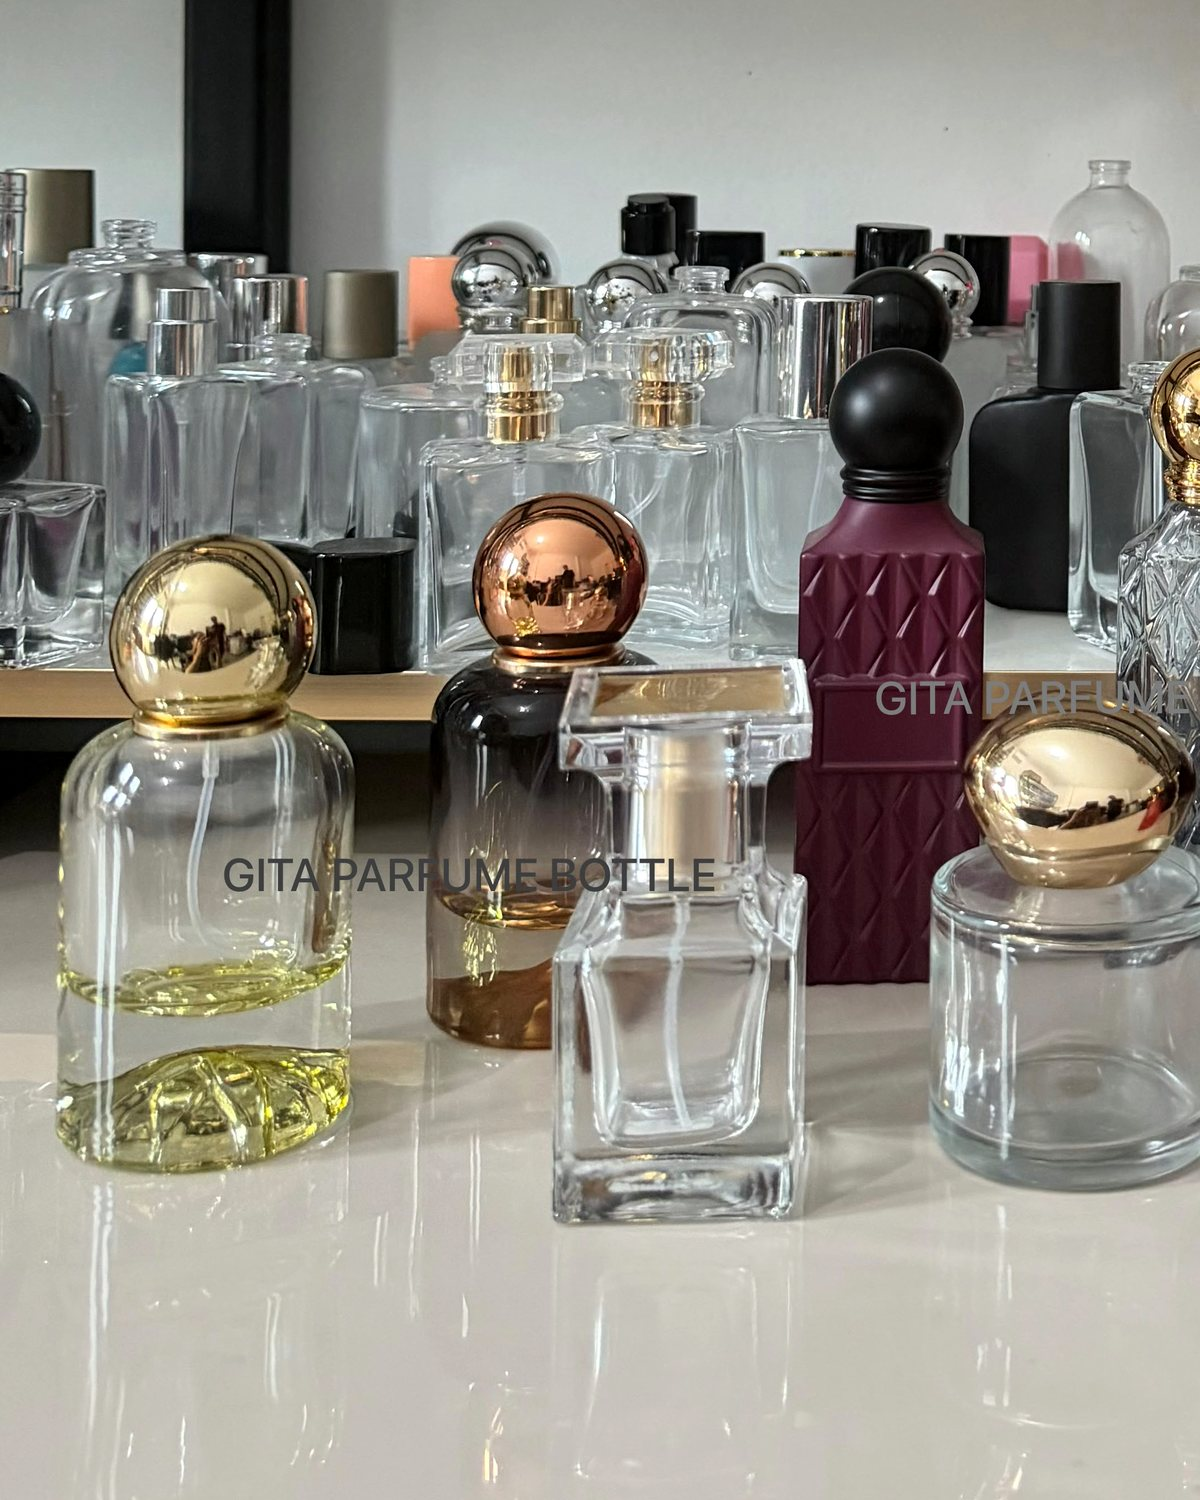
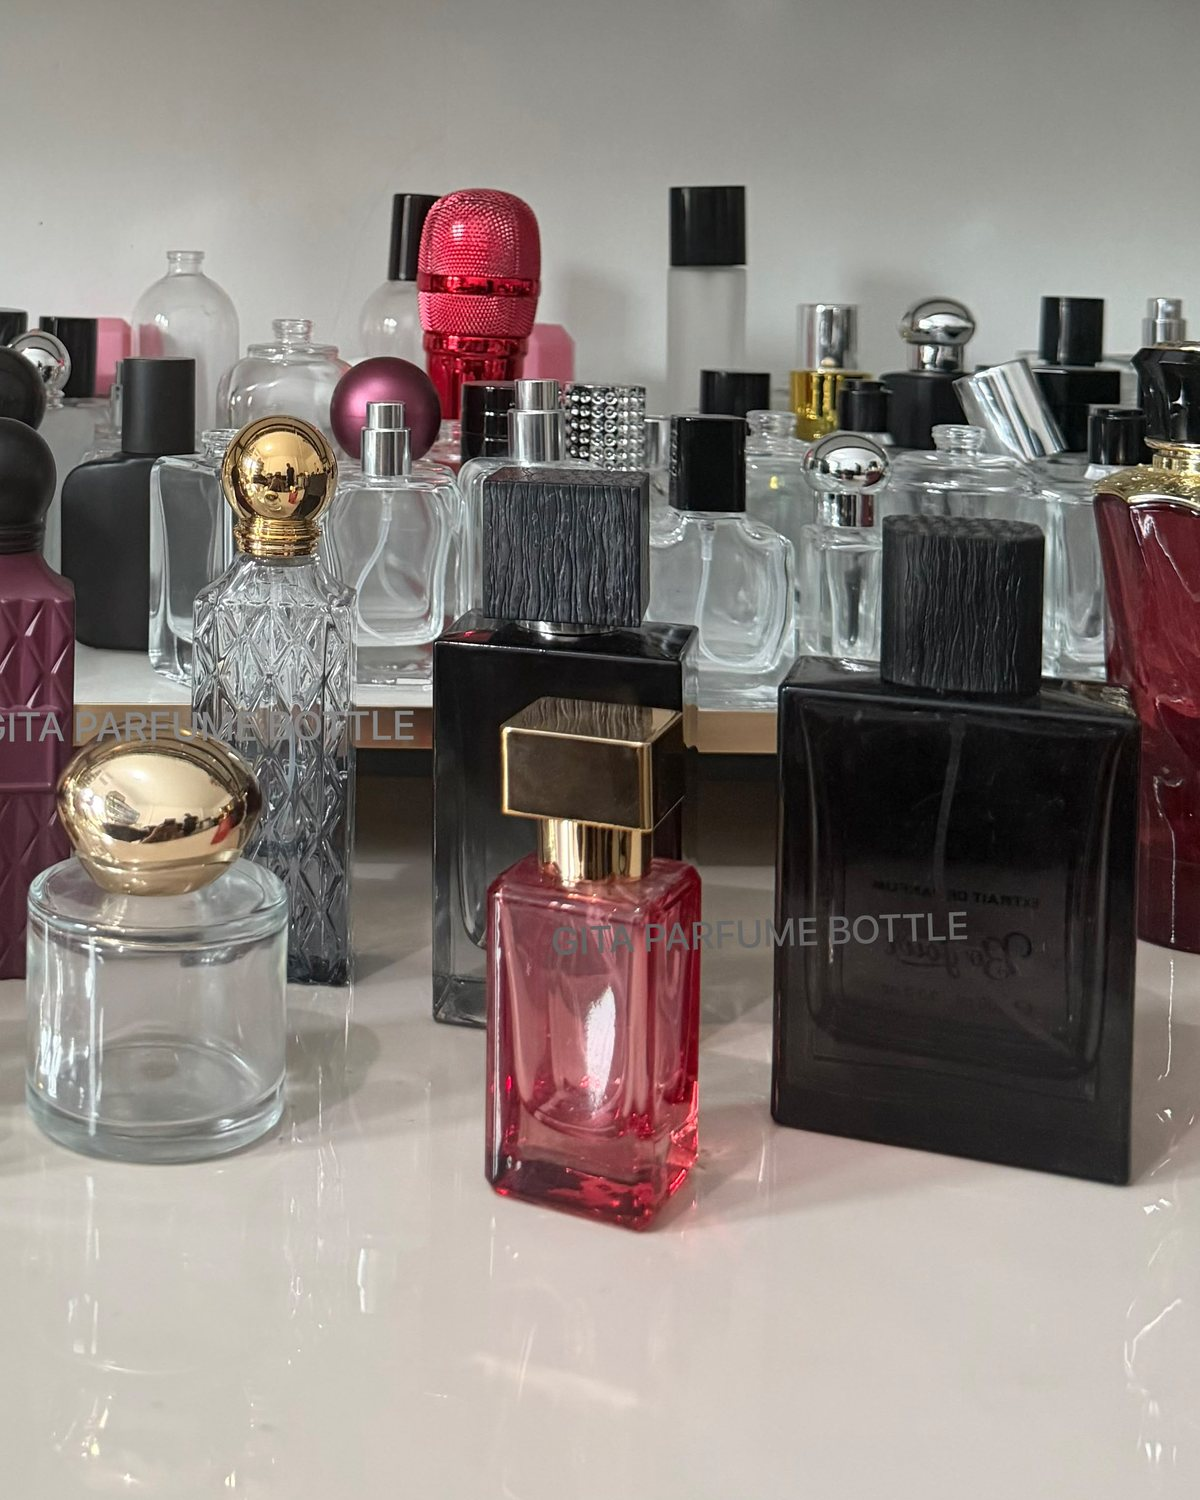
Recrop home hero to the right side of the bottle display photo
Same photo, now framed on the red, black and gold-cap bottles on the right. Alt text updated.

diff --git a/app/page.tsx b/app/page.tsx
@@ -62,7 +62,7 @@ export default function Home() {
           </div>
           {hero ? (
             <div className="hero-photo">
-              <Image src={hero} alt={`Glass perfume bottles with gold, rose-gold and black caps on display at ${site.name}`} fill priority sizes="(max-width: 860px) 100vw, 520px" />
+              <Image src={hero} alt={`Red, black and clear glass perfume bottles with gold and black caps on display at ${site.name}`} fill priority sizes="(max-width: 860px) 100vw, 520px" />
             </div>
           ) : (
             <div className="hero-art" aria-hidden="true">
